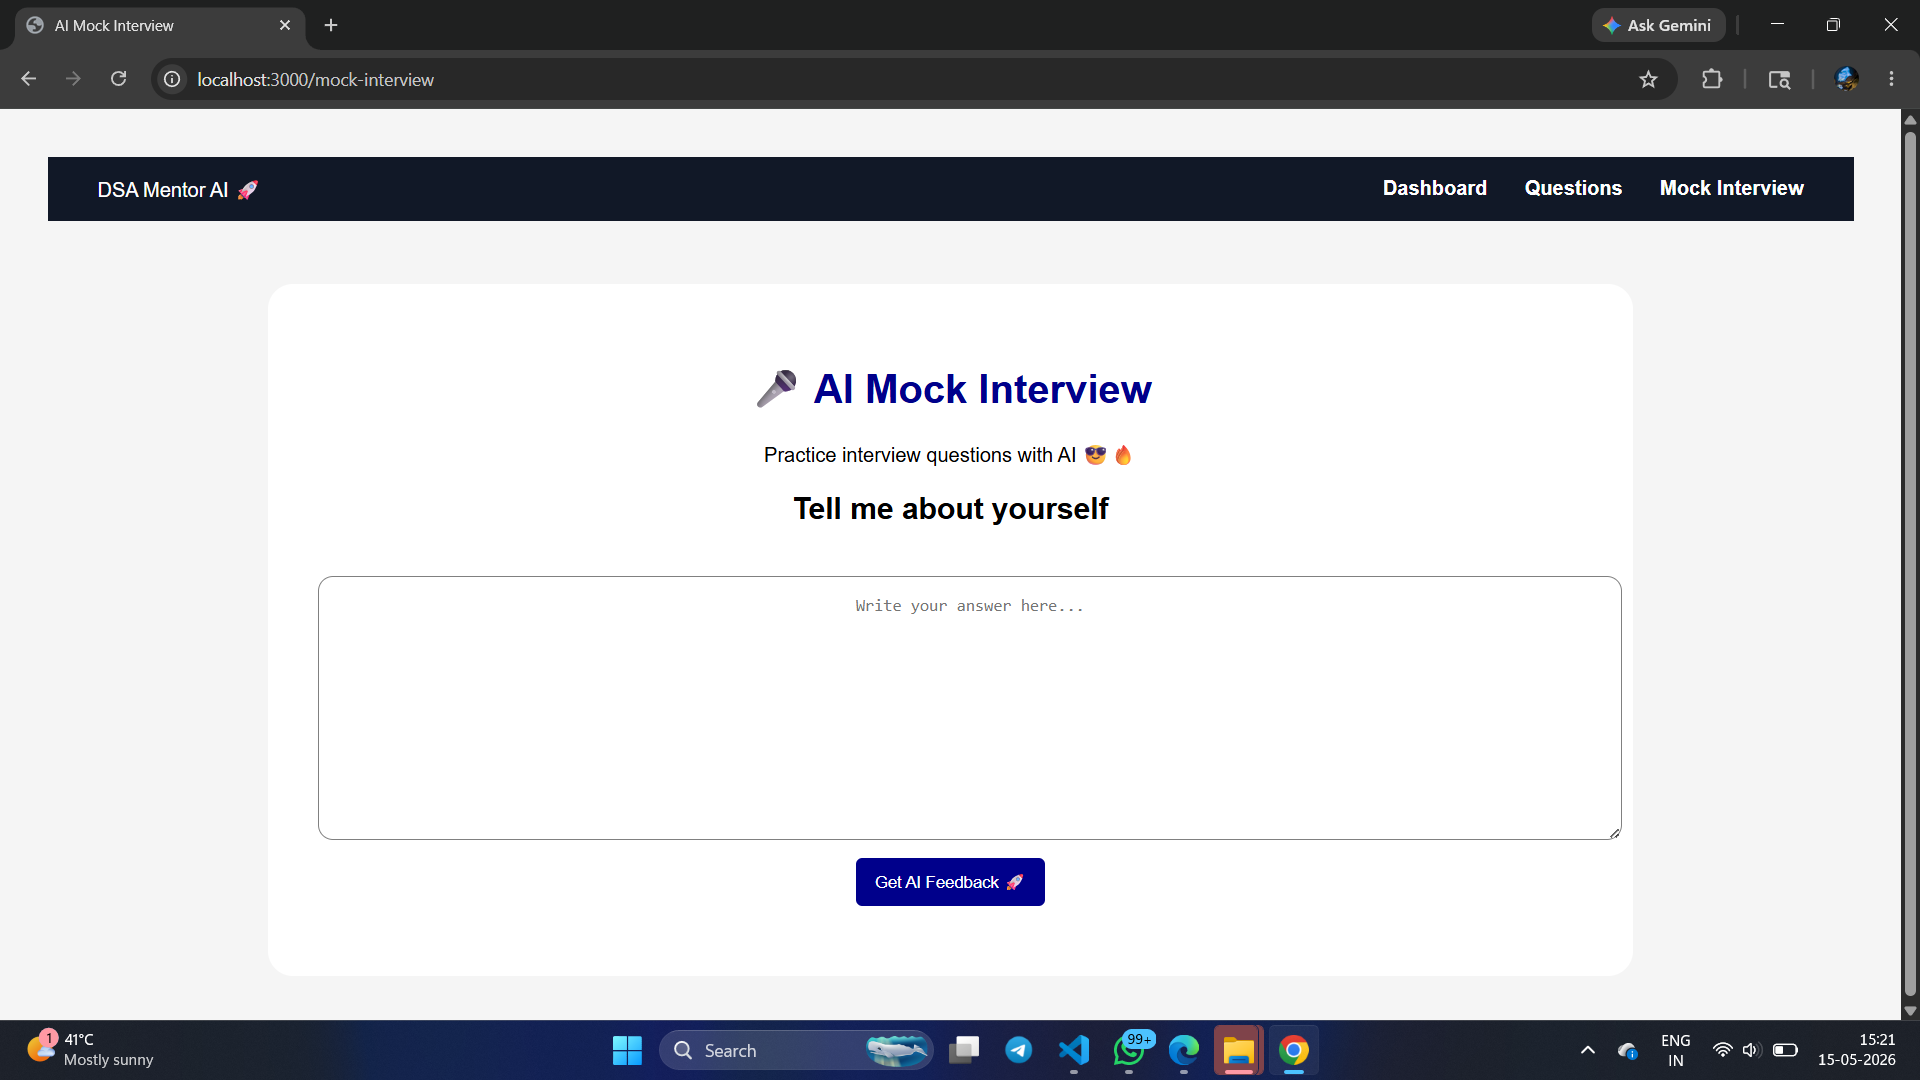
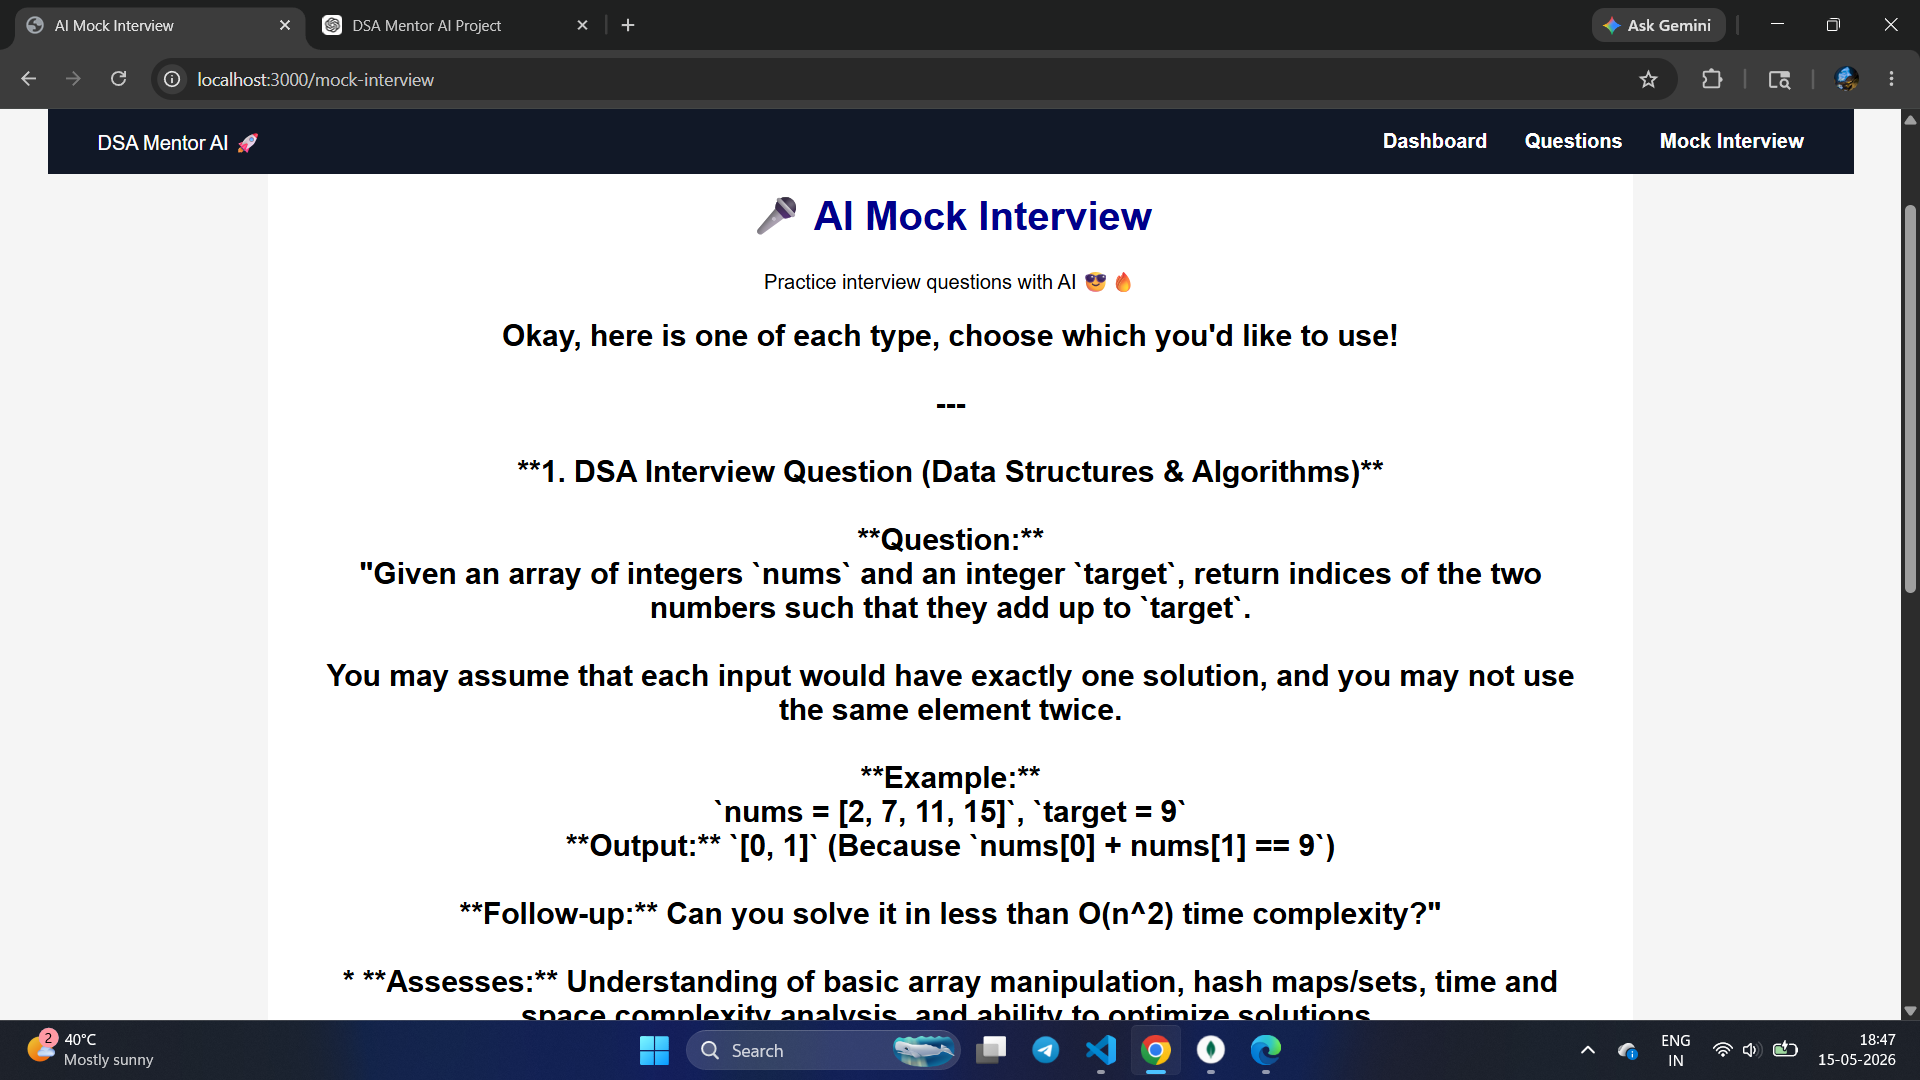
fixed render port

diff --git a/dsa.js b/dsa.js
@@ -44,9 +44,9 @@ require("express-session");
 const User =
 require("./models/User");
 
-mongoose.connect("mongodb://127.0.0.1:27017/dsaMentor")
-.then(() => console.log("MongoDB Connected"))
-.catch((err) => console.log(err));
+mongoose.connect(process.env.MONGO_URL)
+.then(()=> console.log("MongoDB Atlas Connected 😎"))
+.catch((err)=> console.log(err));
 
 app.set("view engine" , "ejs");
 
@@ -1806,6 +1806,8 @@ async(req,res)=>{
     );
 });
 
-app.listen(3000,()=>{
+const PORT = process.env.PORT || 3000;
+
+app.listen(PORT, ()=>{
     console.log("Server Started");
 });
